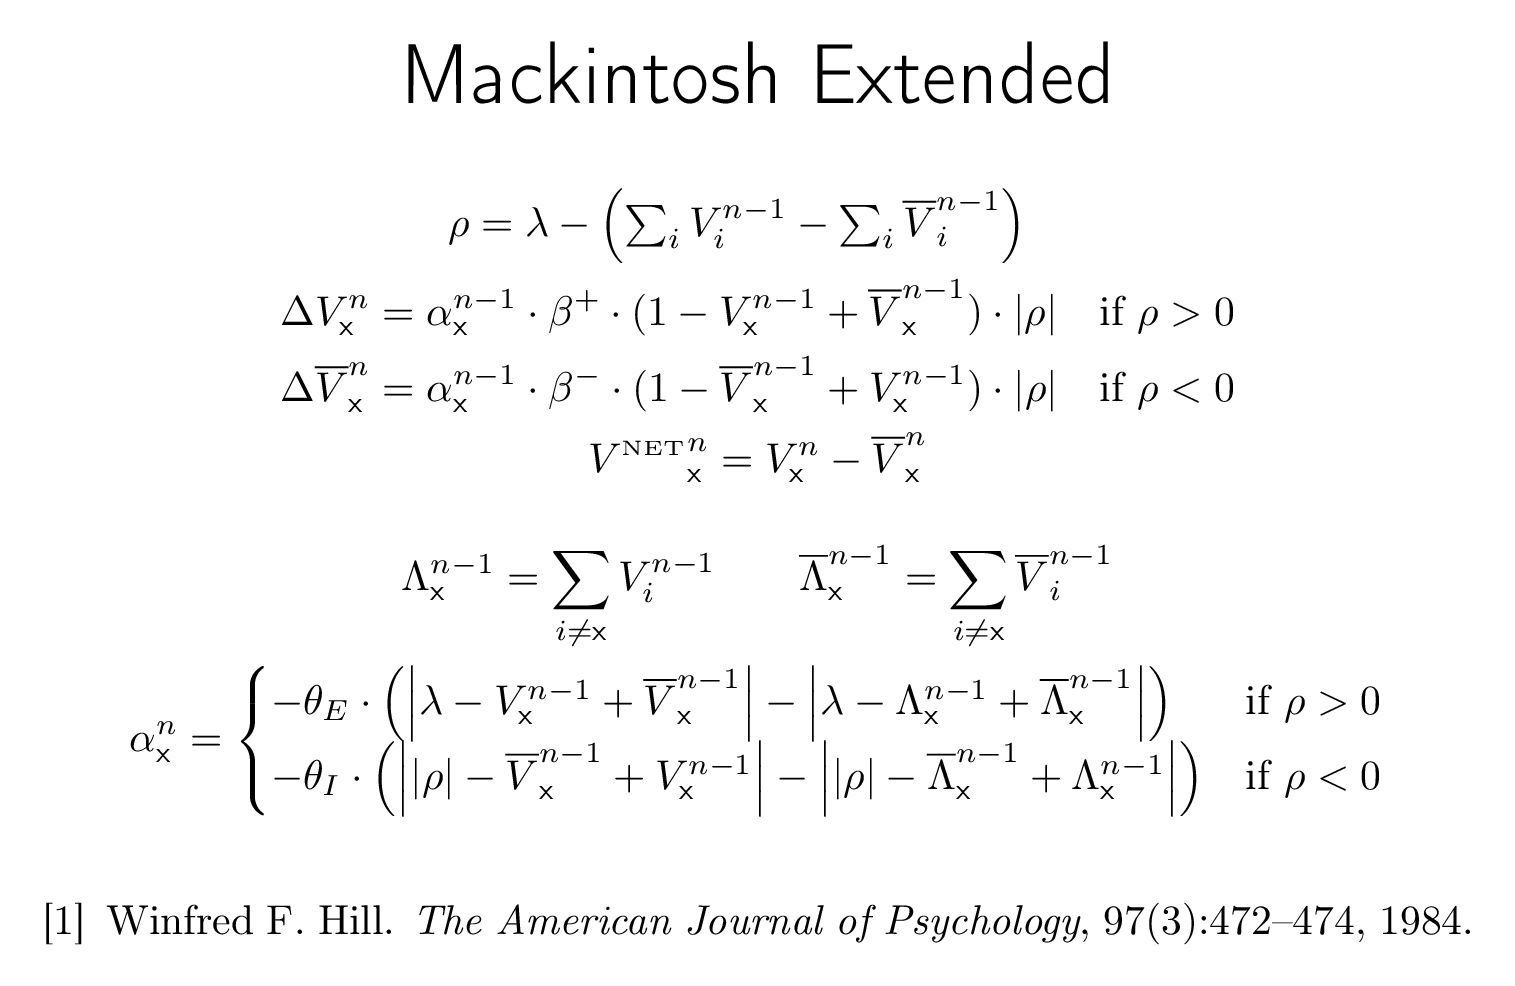
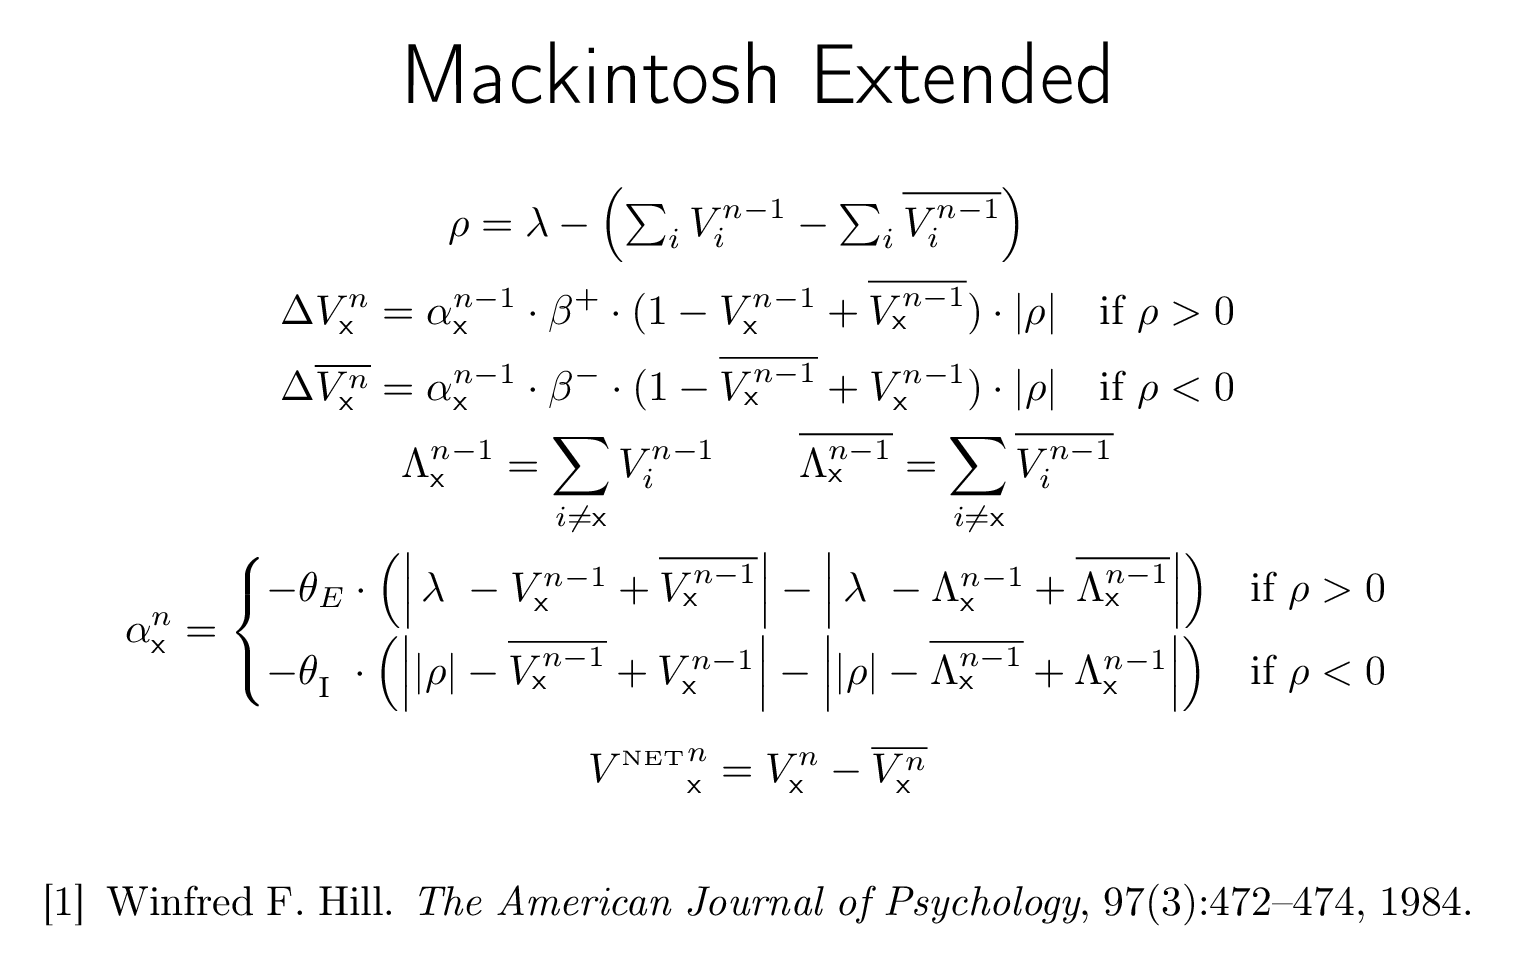
Improving formulas a bit.

diff --git a/resources/Extended_Mack.tex b/resources/Extended_Mack.tex
@@ -12,8 +12,8 @@
 
 \begin{document}
 \newcommand{\eks}{\textsf{x}}
-\newcommand{\longlambda}{\rlap{$\,\lambda$}\phantom{\big| \rho \big|}}
-\newcommand{\longI}{\rlap{$I$}\phantom{E}}
+\newcommand{\longlambda}{\rlap{$\,\lambda$}\phantom{\left| \rho \right|}}
+\newcommand{\longI}{\rlap{\textsubscript{I}}\phantom{\textsubscript{E}}}
 
 \begin{center}
 	\huge
@@ -22,20 +22,20 @@
 \end{center}
 \begin{gather*}
 	\begin{aligned}
-		\rho &= \lambda - \left( \textstyle\sum_i V_i^{n - 1} - \textstyle\sum_i \overline{V}_i^{n - 1} \right)
+		\rho &= \lambda - \left( \textstyle\sum_i V_i^{n - 1} - \textstyle\sum_i \overline{V_i^{n - 1}} \right)
 	\end{aligned} \\
 	\begin{aligned}
-		\Delta V_\eks^n &= \alpha_\eks^{n - 1} \cdot \beta^+ \cdot (1 - V_\eks^{n - 1} + \overline{V}_\eks^{n - 1}) \cdot \left| \rho \right| & \text{if } \rho > 0 \\
-		 \Delta \overline{V}_\eks^n &= \alpha_\eks^{n - 1} \cdot \beta^- \cdot (1 - \overline{V}_\eks^{n - 1} + V_\eks^{n - 1}) \cdot \left| \rho \right| & \text{if } \rho < 0
+		\Delta V_\eks^n &= \alpha_\eks^{n - 1} \cdot \beta^+ \cdot (1 - V_\eks^{n - 1} + \overline{V_\eks^{n - 1}}) \cdot \left| \rho \right| & \text{if } \rho > 0 \\
+		 \Delta \overline{V_\eks^n} &= \alpha_\eks^{n - 1} \cdot \beta^- \cdot (1 - \overline{V_\eks^{n - 1}} + V_\eks^{n - 1}) \cdot \left| \rho \right| & \text{if } \rho < 0
 	\end{aligned} \\
-	{V^{\text{\tiny\scshape NET}}}_\eks^n = V_\eks^n - \overline{V}_\eks^n \\[1em]
 	\Lambda^{n - 1}_\eks = \sum_{i \neq \eks} V^{n - 1}_i \qquad
-	\overline{\Lambda}^{n - 1}_\eks = \sum_{i \neq \eks} \overline{V}^{n - 1}_i \\
+	\overline{\Lambda^{n - 1}_\eks} = \sum_{i \neq \eks} \overline{V^{n - 1}_i} \\
 	\alpha_\eks^n =
 		\begin{cases}
-			- \theta_E \cdot \left( \left| \lambda - V^{n - 1}_\eks + \overline{V}^{n - 1}_\eks \right| - \left| \lambda - \Lambda^{n - 1}_\eks + \overline{\Lambda}^{n - 1}_\eks \right| \right) &\text{if } \rho > 0 \\
-			- \theta_I \cdot \left( \left| \left| \rho \right| - \overline{V}^{n - 1}_\eks + V^{n - 1}_\eks \right| - \left| \left| \rho \right| - \overline{\Lambda}^{n - 1}_\eks + \Lambda^{n - 1}_\eks \right| \right) &\text{if } \rho < 0
-		\end{cases}
+			- \theta_E \cdot \left( \left| \longlambda{} - V^{n - 1}_\eks + \overline{V^{n - 1}_\eks} \right| - \left| \longlambda{} - \Lambda^{n - 1}_\eks + \overline{\Lambda^{n - 1}_\eks} \right| \right) &\text{if } \rho > 0 \\[1ex]
+			- \theta_{\longI{}} \cdot \left( \left| \left| \rho \right| - \overline{V^{n - 1}_\eks} + V^{n - 1}_\eks \right| - \left| \left| \rho \right| - \overline{\Lambda^{n - 1}_\eks} + \Lambda^{n - 1}_\eks \right| \right) &\text{if } \rho < 0
+		\end{cases} \\[1ex]
+	{V^{\text{\tiny\scshape NET}}}_\eks^n = V_\eks^n - \overline{V_\eks^n}
 \end{gather*}
 
 \nocite{mackintosh_original}

diff --git a/resources/PKH.tex b/resources/PKH.tex
@@ -20,11 +20,11 @@
 
 \begin{equation*}
 	\begin{gathered}
-		\rho = \lambda - \left( \textstyle\sum_i V_i^n - \textstyle\sum_i \overline{V_i^n} \right) \\[1em]
+		\rho = \lambda - \left( \textstyle\sum_i V_i^n - \textstyle\sum_i \overline{V_i^n} \right) \\[1ex]
 		\begin{aligned}
 			\Delta V_\eks^{n + 1}            &= S \cdot \beta^+ \cdot \alpha_\eks \cdot \lambda             & \text{if } \rho \geq 0 \\
 			\Delta \overline{V_\eks^{n + 1}} &= S \cdot \beta^- \cdot \alpha_\eks \cdot \left| \rho \right| & \text{if } \rho < 0 \\
-		\end{aligned} \\[1em]
+		\end{aligned} \\[1ex]
 		\begin{aligned}
 			\alpha_\eks^{n + 1} &= \gamma \cdot \left| \rho \right| + (1 - \gamma) \cdot \alpha_\eks^n \\
 			V_\eks^{n + 1} &= \Delta V_\eks^{n + 1} - \Delta \overline{V_\eks^{n + 1}}

diff --git a/PALMS.py b/PALMS.py
@@ -113,8 +113,6 @@ class PavlovianApp(QMainWindow):
         self.adaptiveTypeButtons = AdaptiveTypeButtons(self)
 
         iconLabel = QLabel(self)
-        iconLabel.setPixmap(self.getPixmap('palms.png'))
-        iconLabel.setToolTip('Pavlovian\N{bellhop bell} \N{dog face} Associative\N{handshake} Learning\N{brain} Models\N{bar chart} Simulator\N{desktop computer}.')
 
         self.plotBox = PlotBox(self)
         self.plotCanvas = self.plotBox.plotCanvas

diff --git a/resources/RW-Linear.tex b/resources/RW-Linear.tex
@@ -18,7 +18,7 @@
 \newcommand{\eks}{\textsf{x}}
 \begin{equation*}
 	\begin{aligned}
-		\alpha_\eks^{n + 1} &= \alpha_\eks^n \cdot (1 + 0.05 \cdot \operatorname{sign}(\lambda_j^n)) \\
+		\alpha_\eks^{n + 1} &= \alpha_\eks^n \cdot \left(1 + 0.05 \cdot \operatorname{sign} \left( \lambda \right) \right) \\
 		\Delta V_{\eks}^{n+1} &= \alpha_\eks^{n + 1} \cdot \beta^+ \cdot \left( \lambda - \textstyle\sum_i V_i^{n} \right)
 	\end{aligned}
 	\label{linear_alpha}
